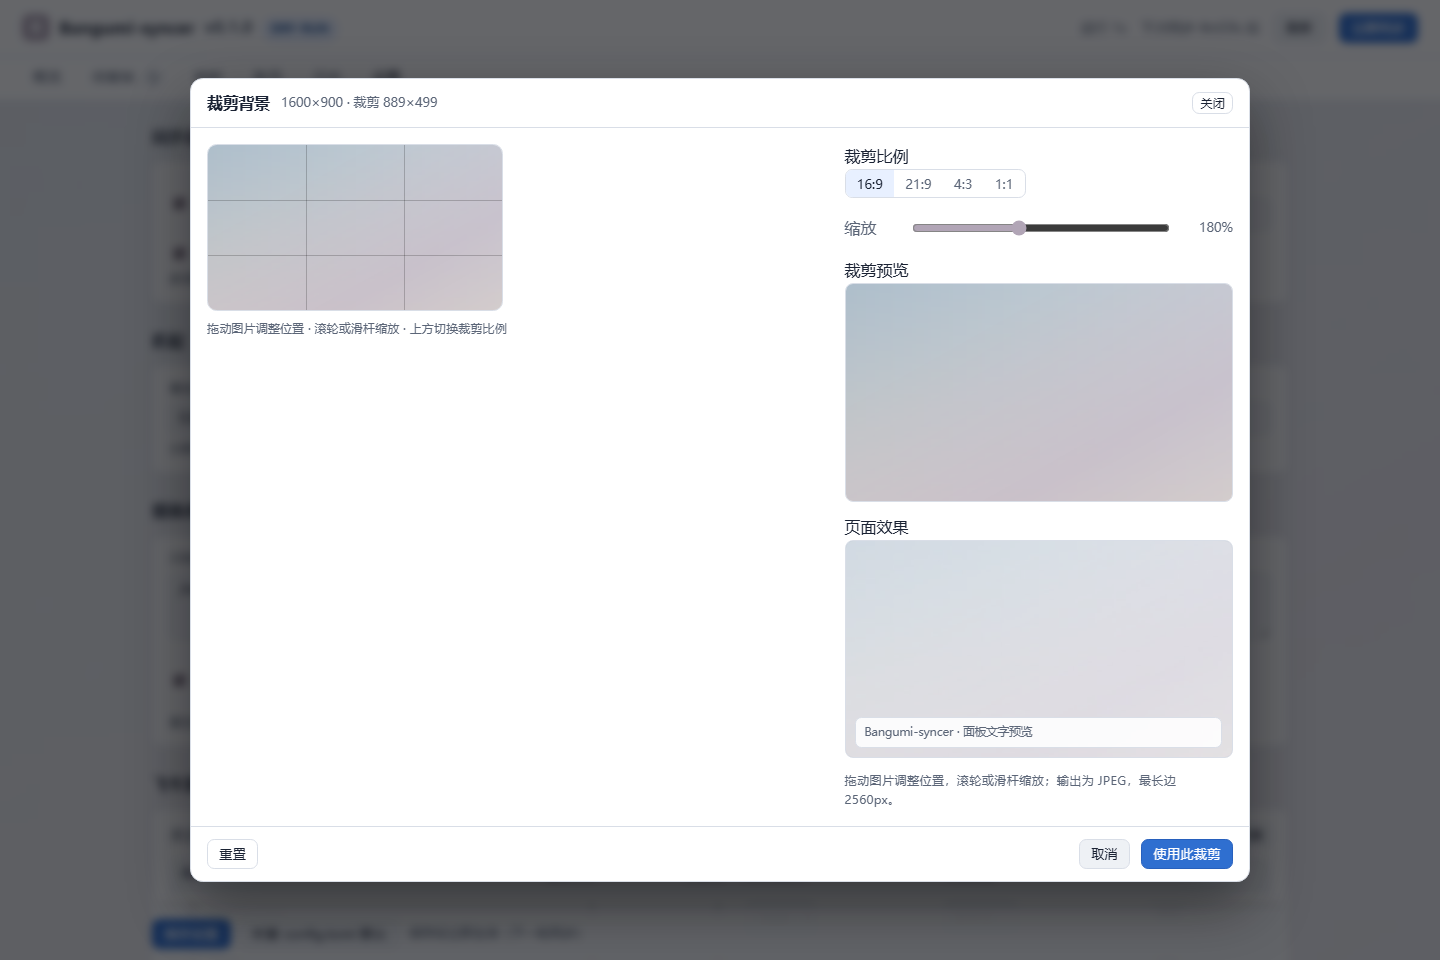
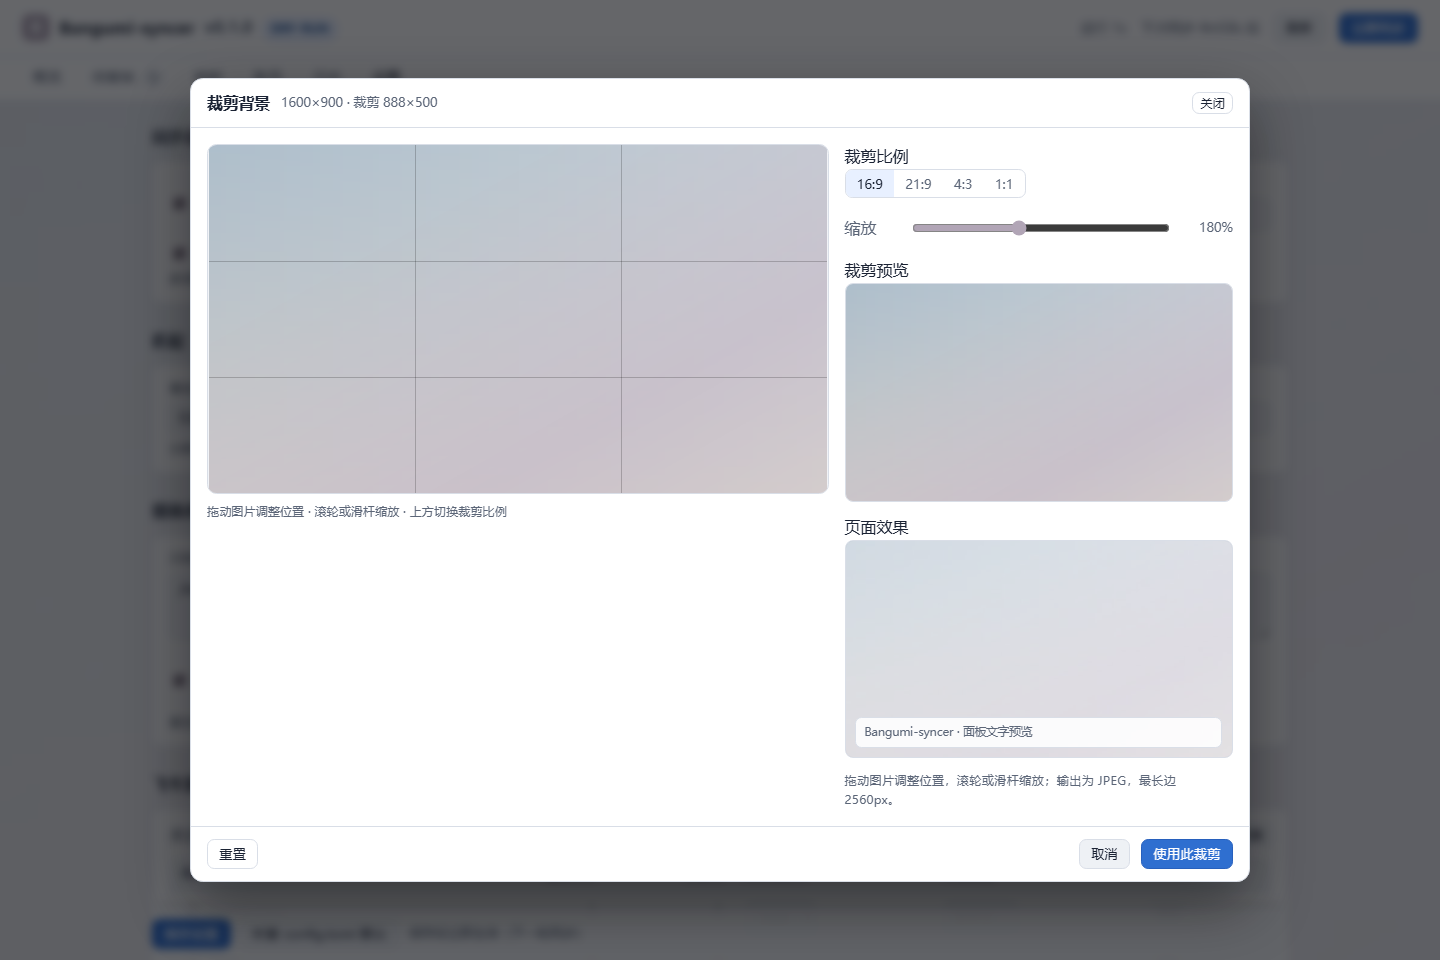
docs: 背景裁剪/预览验证记录、截图与接口说明
- 验证记录新增裁剪流程实测（打开/拖动/缩放/比例/JPEG 落盘/重新裁剪/移动端）
- README 增加裁剪窗口截图与说明；CHANGELOG、api.md 同步
- .dev 留存 ui-verify-crop.js

Changed region(s): [[0.125, 0.125, 0.5938, 0.5625]]

diff --git a/README.zh-CN.md b/README.zh-CN.md
@@ -118,8 +118,10 @@ docker compose logs -f
 设置页里的修改会作为「运行时覆盖」存进状态库，**不需要重启容器**；点「恢复 config.toml 默认」可撤销。
 
 **外观（服务器端保存，多设备共享）**：跟随系统/浅色/深色主题、6 种主题色 + 自定义取色、
-85%–125% 字号、舒适/紧凑密度；背景支持**上传图片 / 图片 URL / 4 个内置渐变预设**，
+85%–125% 字号、舒适/紧凑密度；背景支持**上传图片（先裁剪）/ 图片 URL / 4 个内置渐变预设**，
 可调不透明度、模糊与遮罩；还能**从背景提取莫兰迪低饱和配色**并一键用作主题色。
+上传图片会先打开**裁剪窗口**：拖动定位、滚轮/滑杆缩放、16:9 / 21:9 / 4:3 / 1:1 比例，
+右侧实时预览裁剪结果与页面效果；已保存的背景可「重新裁剪」。
 首屏会用浏览器缓存先渲染，避免闪白。
 
 右上角「立即同步」会让常驻循环立刻跑一轮（最多等 0.5 秒），适合刚看完一集时手动触发。
@@ -142,6 +144,10 @@ docker compose logs -f
 手机端（390×844，深色）：
 
 <img src="docs/screenshots/mobile-settings-dark.png" width="320" alt="移动端设置页">
+
+上传背景时的裁剪窗口（拖动 / 缩放 / 比例 / 实时预览）：
+
+![背景裁剪](docs/screenshots/crop-modal.png)
 
 主题支持「跟随系统 / 浅色 / 深色」，另有 6 种主题色 + 自定义取色、85%–125% 字号、舒适/紧凑密度。
 **外观与背景保存在服务器**，多设备共享；背景可上传、填 URL 或使用 4 个内置渐变预设，

diff --git a/docs/verification.md b/docs/verification.md
@@ -91,6 +91,21 @@
 | 多设备同步 | 新开无痕上下文（无 localStorage）读到服务器主题 `light`；`PUT theme=dark` 后刷新即为 `dark` |
 | 响应式回归 | 开启背景后 17 个视口用例仍全部通过，0 横向溢出 |
 
+### 背景裁剪与预览
+
+用无头 Chrome 走完「选择文件 → 裁剪 → 上传」，实测结果：
+
+| 项 | 结果 |
+| --- | --- |
+| 打开裁剪 | 1600×900 原图，舞台比例 1.776（16:9），预览画布 640×360 且非空 |
+| 拖动 | 预览内容变化（哈希对比） |
+| 缩放 | 滑杆 180% → 标签与画布同步 |
+| 比例 | 切到 1:1 后预览为 500×500 |
+| 输出 | 确认后上传 JPEG（7.2 KB），背景版本 3→4，`/static/background` 返回 `image/jpeg` 且魔数 `FF D8 FF` |
+| 重新裁剪 | 打开服务器背景（889×500）再次裁剪 |
+| 移动端 | 390×844 下弹窗宽 360、页面 `layout=ok`，预览完整 |
+| 控制台 | 无报错（过程中修复了关闭弹窗后预览定时器访问已释放图片、舞台宽度收缩两个问题） |
+
 ## 6. 快照健壮性（实机发现）
 
 飞牛在 01:45 / 01:47 重写 `trimmedia.db` 时，只读 `VACUUM INTO` 会得到**合法但无表**的空库，

diff --git a/README.md b/README.md
@@ -140,8 +140,10 @@ Open `http://<nas>:8099/` after the container starts:
   Bangumi API guide.
 - **Appearance** (stored server-side, shared by every device) — auto/light/dark theme, six accent
   colours plus a custom picker, 85–125% font scale, comfortable/compact density; custom background
-  via **upload / image URL / four built-in gradient presets** with opacity, blur and scrim controls,
-  and **Morandi palette extraction from the background** that can be applied as the accent colour.
+  via **upload (with crop dialog) / image URL / four built-in gradient presets** with opacity, blur
+  and scrim controls, and **Morandi palette extraction from the background** that can be applied as
+  the accent colour. The crop dialog supports drag, wheel/slider zoom, 16:9 / 21:9 / 4:3 / 1:1 and
+  live previews of both the crop and the resulting page.
 
 The **Sync now** button in the header wakes the loop immediately (≤0.5 s).
 

diff --git a/CHANGELOG.md b/CHANGELOG.md
@@ -7,6 +7,9 @@
 
 ### 新增
 
+- **背景上传支持裁剪与实时预览**：选择图片后弹出裁剪窗口，可拖动定位、滚轮/滑杆缩放、
+  选择 16:9 / 21:9 / 4:3 / 1:1 比例；右侧实时显示裁剪结果与「页面效果」预览（含遮罩）。
+  输出 JPEG（最长边 2560px，质量 0.9）后上传；已保存的背景可「重新裁剪」。
 - **外观配置改为服务器端保存**（状态库 + `assets/background.bin`），主题/主题色/字号/密度/背景
   在所有设备间共享；浏览器仅保留首屏缓存以避免闪白。
 - **自定义背景**：上传图片（PNG/JPEG/WebP/GIF，≤8MB）、图片 URL（服务端下载后保存）、

diff --git a/docs/api.md b/docs/api.md
@@ -203,6 +203,7 @@ Bangumi 侧失败时返回 `502`。
 三种写法：
 
 * **上传图片**（推荐）：请求体是二进制，`Content-Type: image/png|jpeg|webp|gif`，≤ 8 MB；
+  网页端会先在浏览器里裁剪成 JPEG（最长边 2560px）再上传，接口仍按原始二进制校验；
 * **图片 URL**：`{"url": "https://example.com/a.jpg"}`，服务端下载后保存（避免跨域/图床失效）；
 * **内置预设**：`{"preset": "mist"}`，可选 `mist` / `dusk` / `ocean` / `paper`。
 
